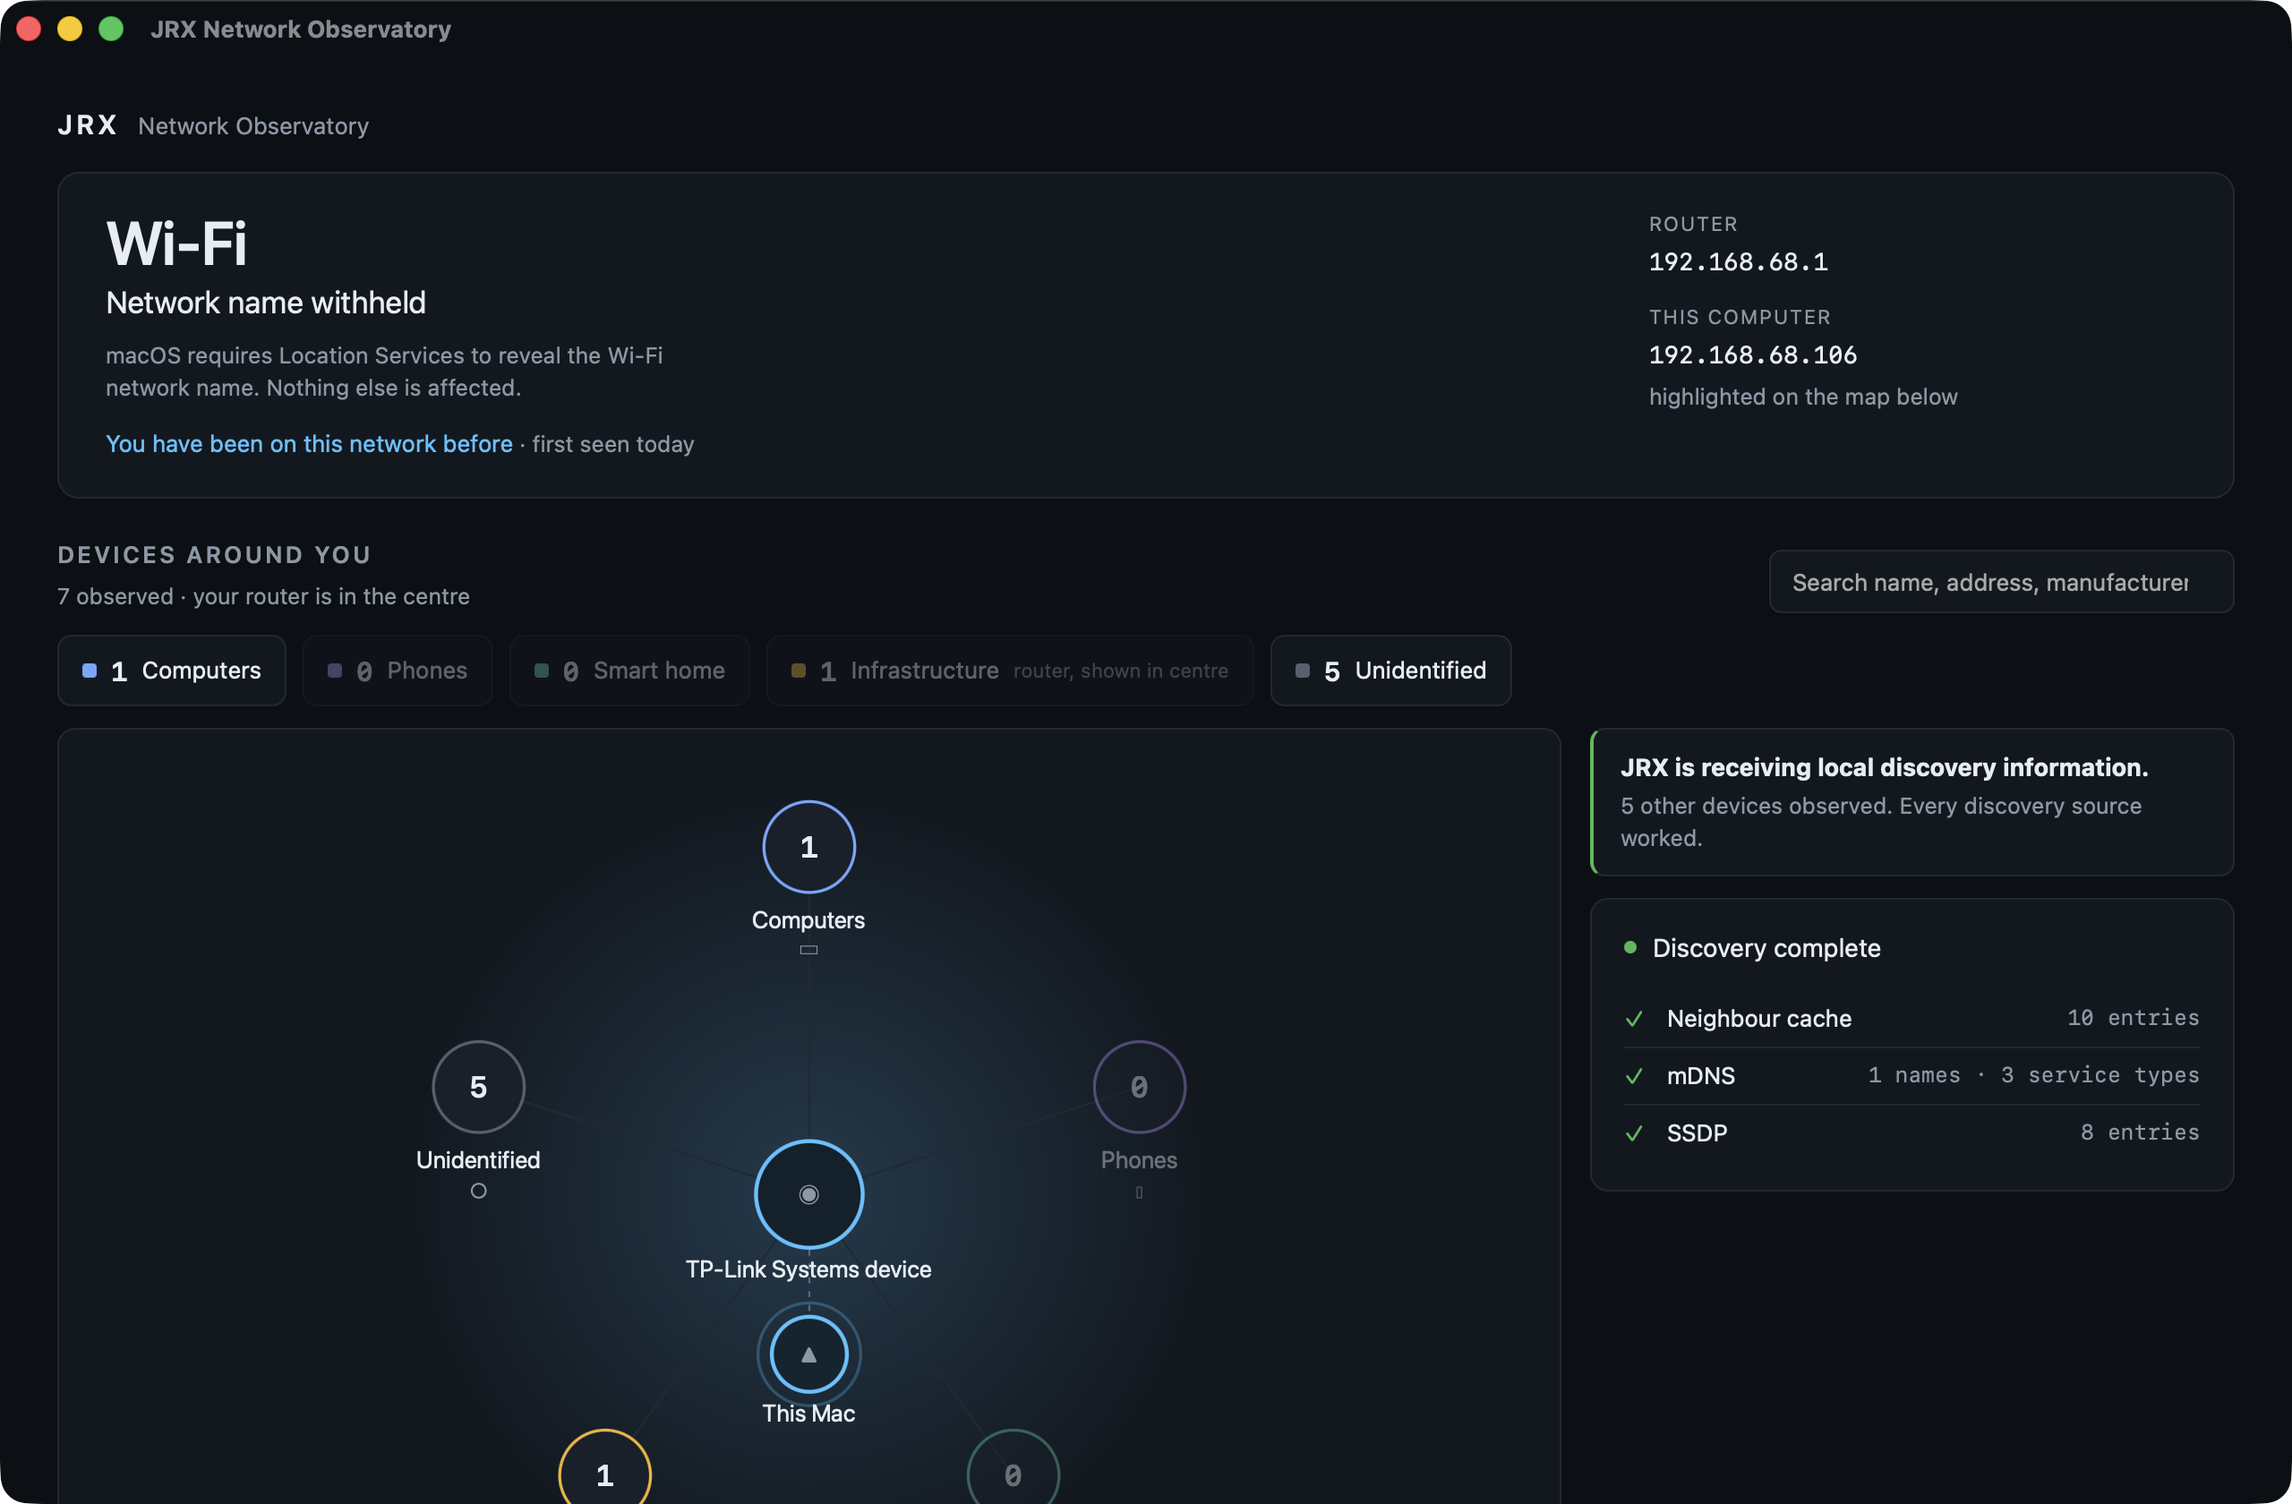
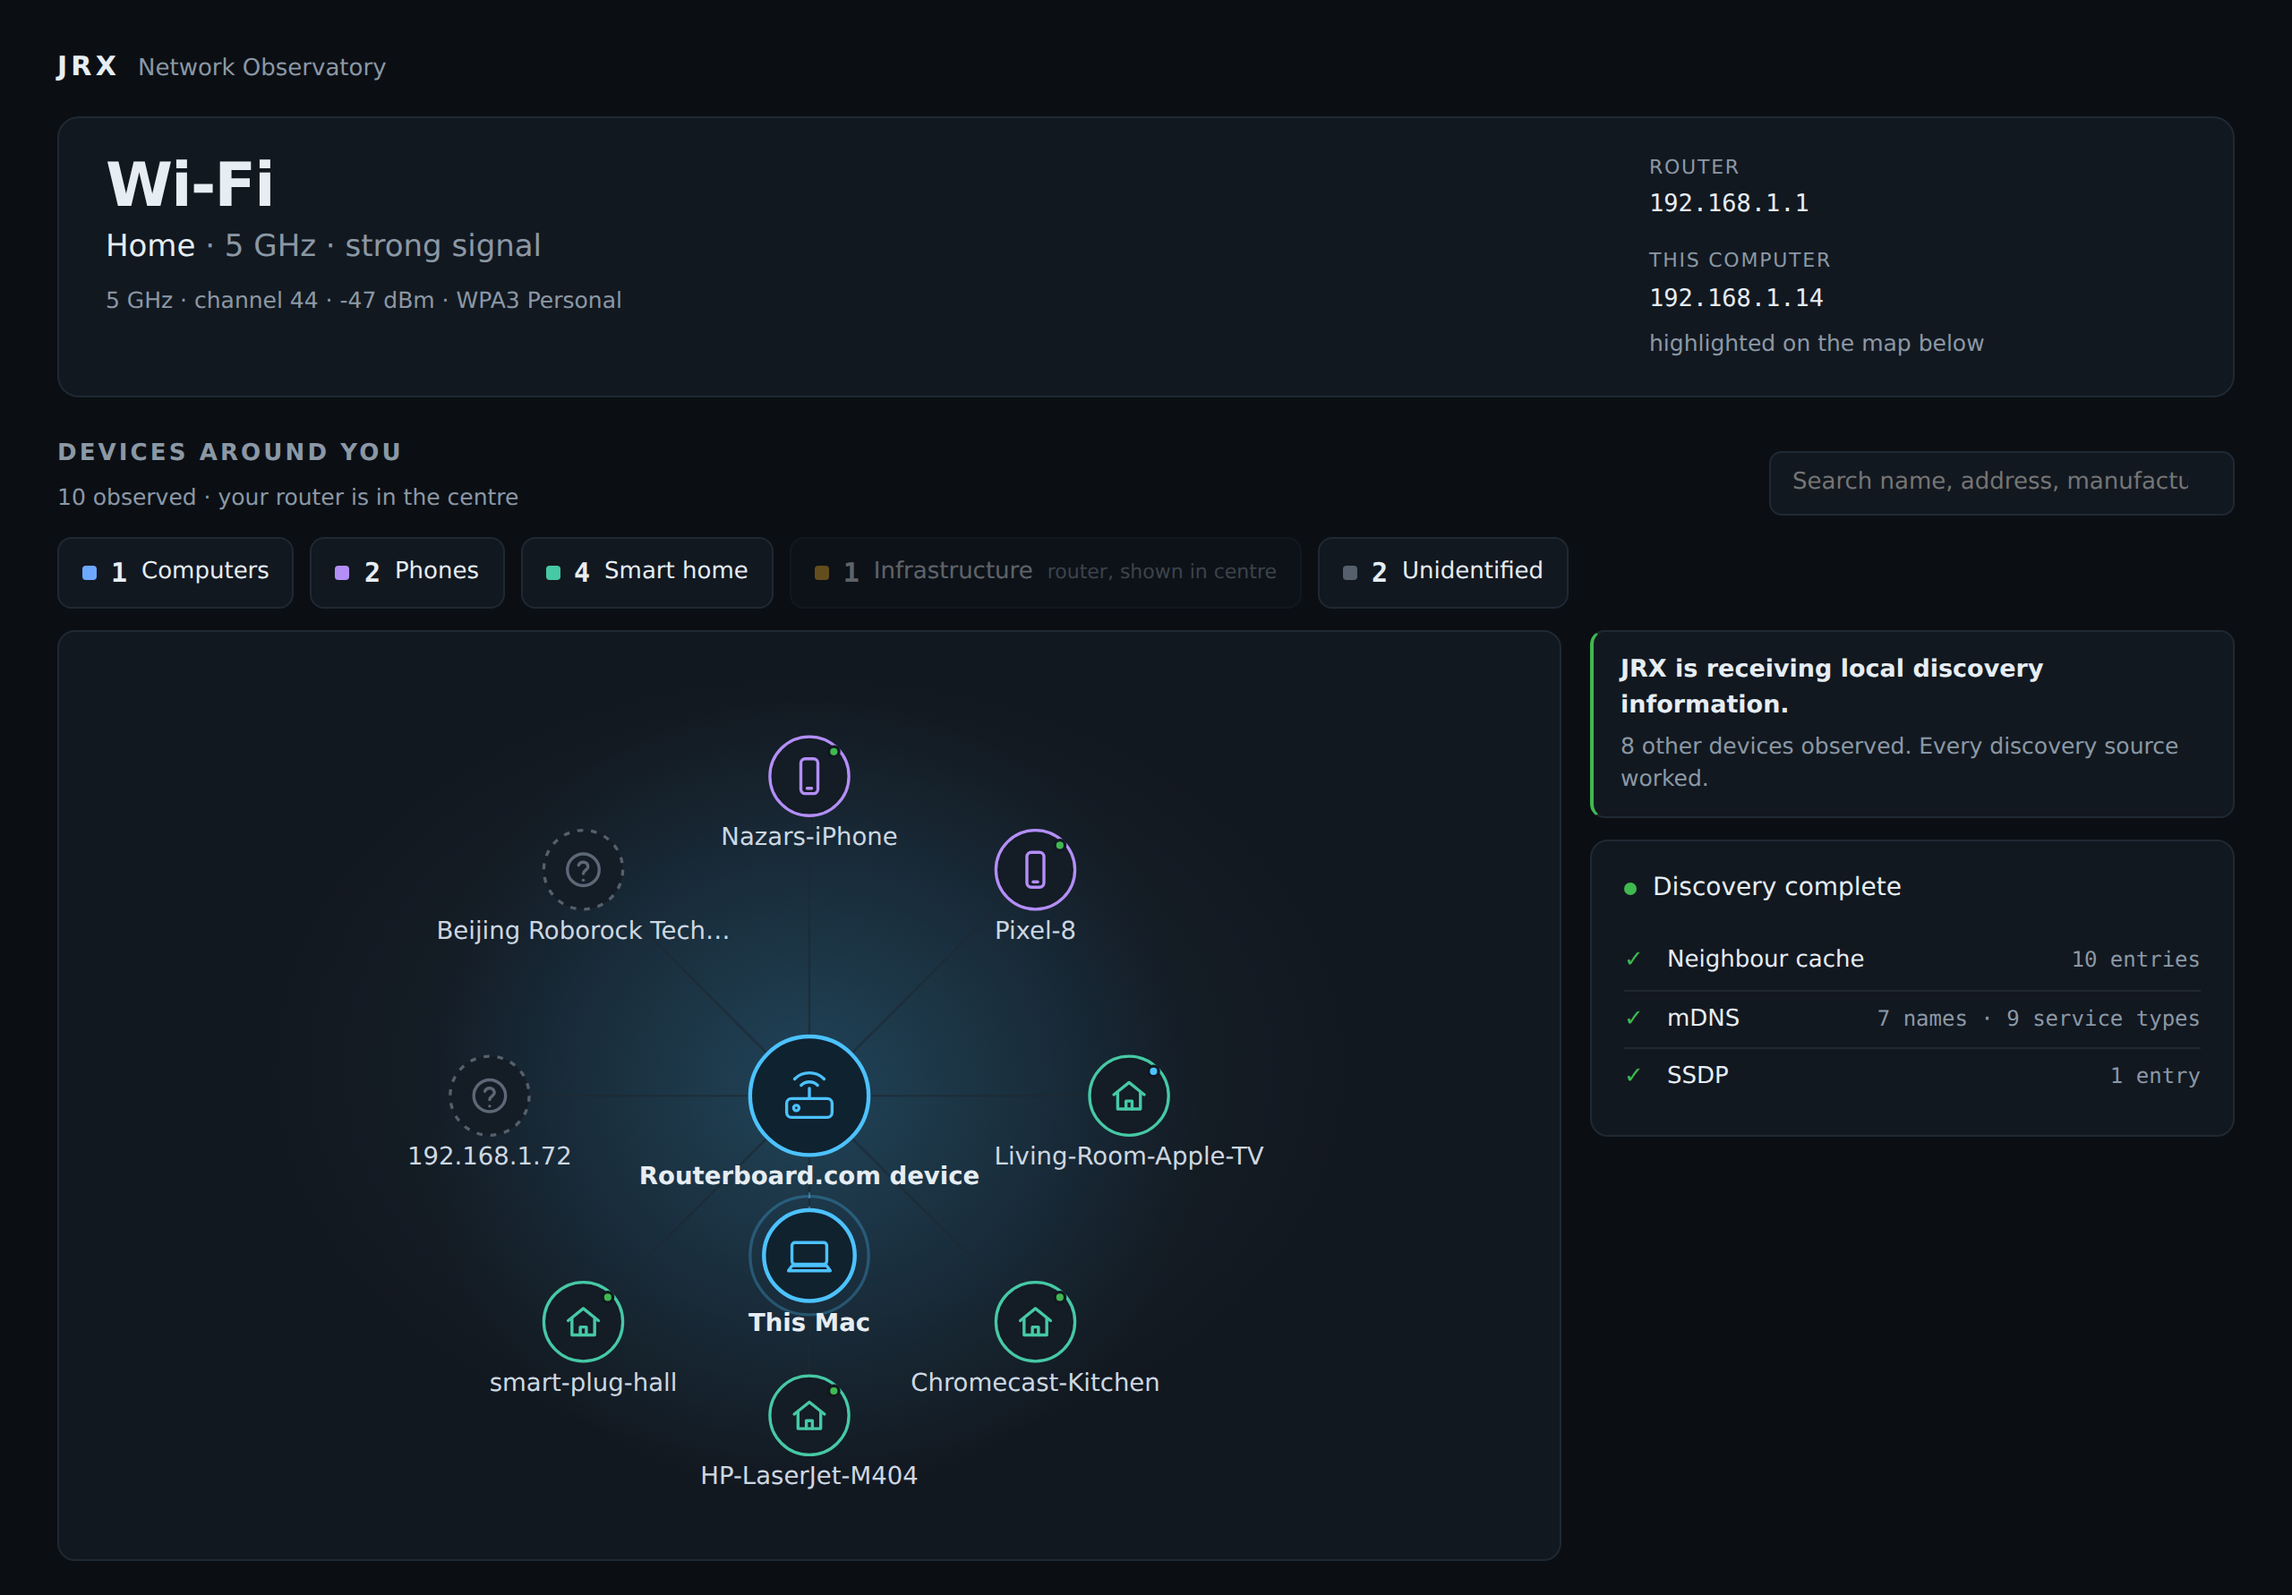
README: refresh the screenshots for the new device map
The two 'A look' shots showed the older, plainer topology. Replace them
with the redesigned map — every device drawn as its kind, an unidentified
device left as a dashed circle, and the panel that separates what JRX
observed from what it concluded. Captions updated to match.

Claude-Session: https://claude.ai/code/session_018kriHP8tf3GZnFdkY38fT1

diff --git a/README.md b/README.md
@@ -24,9 +24,9 @@ and a mobile companion later.
 
 Shown on JRX's built-in **demo network** — deterministic fixture data, not a real network.
 
-![JRX showing the Wi-Fi you are connected to, that you have been on this network before, and a map of the devices around you](docs/screenshots/01-network.png)
+![JRX's home screen: the Wi-Fi you are connected to, whether you have been on this network before, and a live map of the devices around you — the router at the centre, this Mac highlighted, and every device drawn as the kind of thing it is](docs/screenshots/01-network.png)
 
-![JRX's hierarchical topology map: the router at the centre, this Mac highlighted, every other device grouped by kind and bounded so a busy network stays legible](docs/screenshots/02-topology.png)
+![Click any device for the full picture: what JRX observed, what it concluded and why, and — stated plainly — what it still does not know. Colour marks the kind of device, never a guess; an unidentified device stays a dashed circle rather than a fabricated label. Busy networks group by kind so the map stays legible](docs/screenshots/02-topology.png)
 
 ---
 
